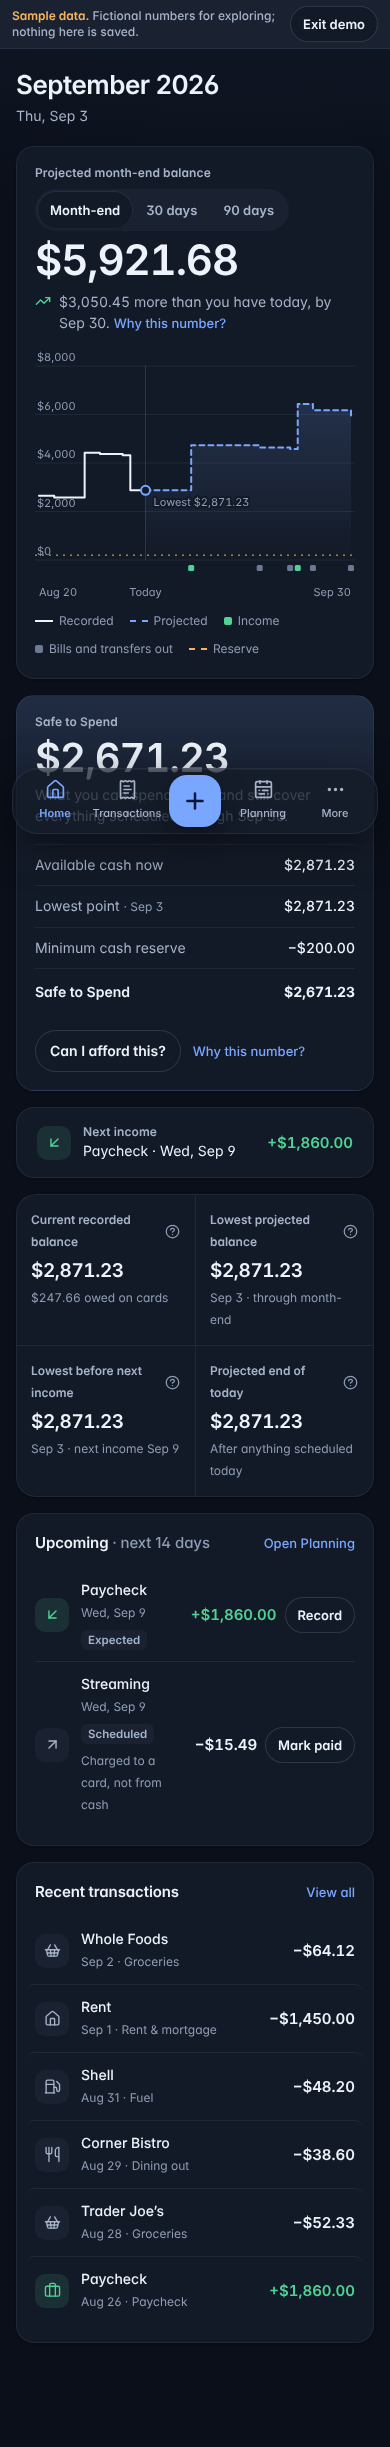
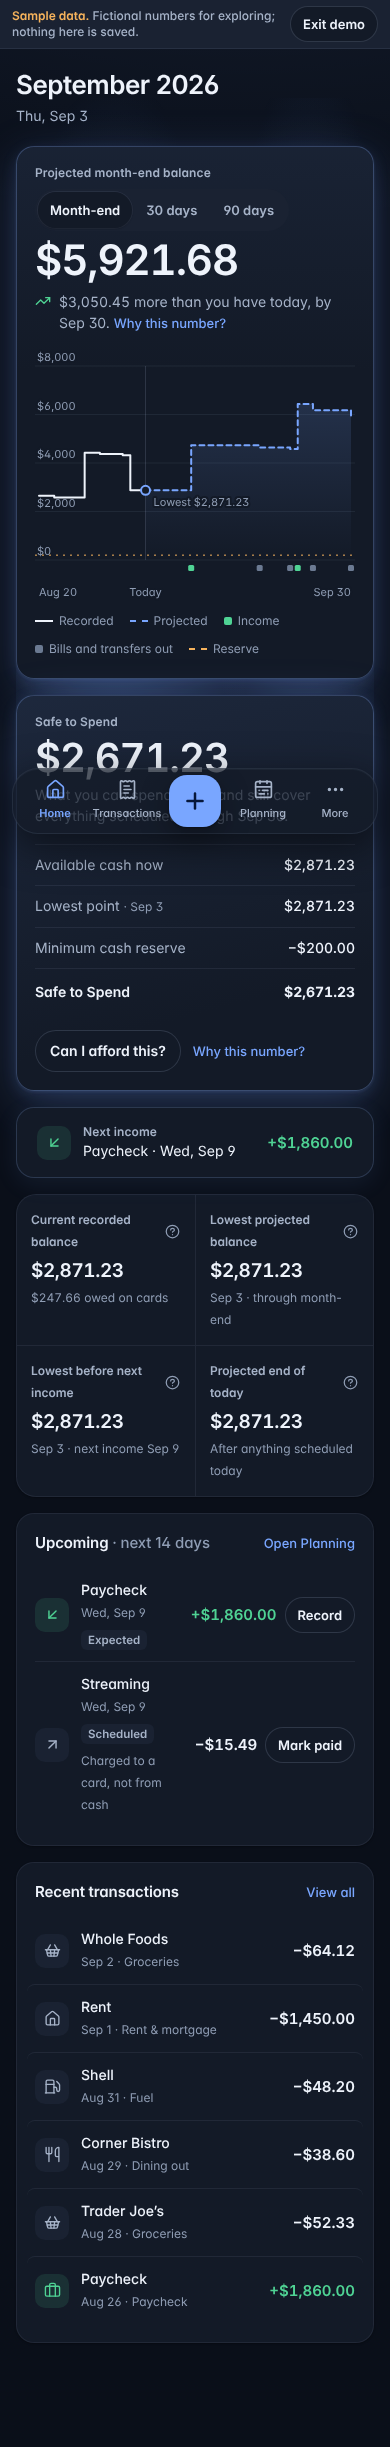
Home: stronger blue glow on the headline cards
Ambient blue light behind the overview, layered blue shadows and a
light blue tint on Projected month-end and Safe to Spend. Tints are
capped so text keeps WCAG AA contrast; the glow layer stays within
the content width (no horizontal scroll on phones).

Claude-Session: https://claude.ai/code/session_01M9ew4pyNz51LMSew6kHA9E

Changed region(s): [[0.0, 0.0621, 0.9846, 0.4659]]

diff --git a/apps/web/src/styles/base.css b/apps/web/src/styles/base.css
@@ -367,7 +367,19 @@ table.data tr.excluded td { opacity: 0.5; }
 @media (prefers-reduced-motion: reduce) { *, *::before, *::after { animation-duration: 1ms !important; transition-duration: 1ms !important; } }
 
 /* ───────── dashboard ───────── */
-.overview { display: grid; grid-template-columns: minmax(0, 1.55fr) minmax(320px, 1fr); gap: var(--space-lg); align-items: stretch; }
+.overview { display: grid; grid-template-columns: minmax(0, 1.55fr) minmax(320px, 1fr); gap: var(--space-lg); align-items: stretch; position: relative; isolation: isolate; }
+/* Home signature: soft ambient blue light behind the two headline cards, layered blue glow on the cards.
+   Tints stay light at the top and fade to the plain surface, so text keeps its AA contrast. */
+.overview::before { content: ''; position: absolute; z-index: -1; inset: -48px 0 -24px; pointer-events: none;
+  background: radial-gradient(ellipse 55% 60% at 28% 40%, color-mix(in srgb, var(--c-accent) 24%, transparent), transparent 70%),
+              radial-gradient(ellipse 40% 55% at 82% 35%, color-mix(in srgb, var(--c-accent) 20%, transparent), transparent 70%); }
+.overview .card.outlook, .overview .card.sts {
+  border-color: color-mix(in srgb, var(--c-accent) 22%, var(--c-border));
+  box-shadow: 0 1px 3px color-mix(in srgb, var(--c-accent) 12%, transparent),
+              0 4px 16px color-mix(in srgb, var(--c-accent) 12%, transparent),
+              0 16px 52px color-mix(in srgb, var(--c-accent) 22%, transparent); }
+.overview .card.outlook { background: linear-gradient(180deg, color-mix(in srgb, var(--c-accent) 6%, var(--c-surface)), var(--c-surface) 42%); }
+.overview .card.next-income { border-color: color-mix(in srgb, var(--c-accent) 12%, var(--c-border)); box-shadow: 0 6px 24px color-mix(in srgb, var(--c-accent) 9%, transparent); }
 @media (max-width: 1080px) { .overview { grid-template-columns: 1fr; } }
 .outlook .t-hero { margin: 6px 0 8px; }
 .side { display: flex; flex-direction: column; gap: var(--space-lg); min-width: 0; }
@@ -377,7 +389,7 @@ table.data tr.excluded td { opacity: 0.5; }
 .delta svg { flex: none; margin-top: 2px; }
 @media (max-width: 900px) { .t-hero { font-size: 42px; line-height: 46px; letter-spacing: -1.1px; } }
 
-.sts { display: flex; flex-direction: column; background: linear-gradient(180deg, var(--c-accent-soft), transparent 46%), var(--c-surface); }
+.sts { display: flex; flex-direction: column; background: linear-gradient(165deg, color-mix(in srgb, var(--c-accent) 10%, var(--c-surface)), color-mix(in srgb, var(--c-accent) 4%, var(--c-surface)) 45%, var(--c-surface) 75%); }
 .sts .metric { font-size: 40px; line-height: 44px; font-weight: 600; letter-spacing: -1px; margin: 6px 0 4px; }
 .sts .metric.short { color: var(--c-negative); }
 .eq { display: grid; margin: 18px 0; border-top: 1px solid var(--c-border); }

diff --git a/PROJECT_MEMORY.md b/PROJECT_MEMORY.md
@@ -66,6 +66,8 @@ Safe to Spend · Projected month-end balance · Current recorded balance · Avai
 - **[Decision, user]** Visual reference is copilot.money: cool blue-tinted light background, white cards, navy text, a clear blue accent, soft blue shadows, pill buttons. Borrow the feel only, not their branding, logo, emoji, font (Matter, licensed) or layouts. The site is light-only, so Clarity's dark mode is our own cool navy version.
 - **[Verified]** Tokens now: bg #F2F6FC, text #12263F, accent #2559DB (Copilot's #437CEF fails AA for text, so it is deliberately deeper), dark bg #0A0F19 / accent #79A6FF. Radii 8/12/20/26, buttons and segmented controls are pills. `chartPositive` is a brighter green for fills only (never text). Spending bars use the accent blue. Category hues are saturated (blue, pink, teal, violet, orange, green, sky, rose). App icons regenerated in blue from `packages/design-system/icon.svg`.
 - **[Lesson]** Avoid warm/beige neutrals and earthy category hues: the user reads them as brown.
+- **[Decision, user]** Home has a stronger blue glow: an ambient blue light behind the overview, and a layered blue shadow plus light blue tint on the Projected month-end and Safe to Spend cards. Other cards stay plain. Tints are capped (Safe to Spend top at 10% accent) so all text stays ≥4.5:1.
+- **[Lesson]** Decorative layers must not extend past the content width (a -24px inset caused 8px of horizontal scroll on phones). `redesign.spec.ts` phone test catches this.
 - **[Verified]** `Category.budgetCents` (optional) stores a monthly budget. No migration needed. The mobile app ignores it for now.
 - **[Decision]** The dashboard chart marks the lowest point of the plotted projection (which includes estimated income). The "Lowest projected balance" tile stays conservative (fixed income only). They differ only when estimated income exists.
 - **[Open]** The native mobile app has the new colors (shared tokens) but not the new Budget and Reports screens or the new dashboard layout.
